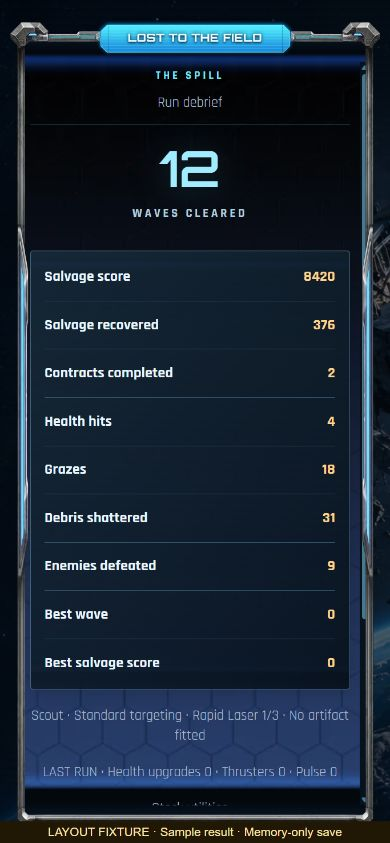
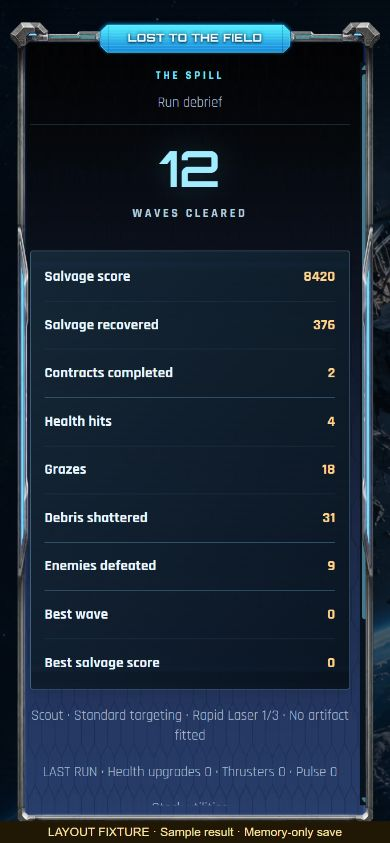
Fit panel backing continuously beneath the metal frame

Changed region(s): [[0.0615, 0.8944, 0.9538, 0.987], [0.0615, 0.0617, 0.9538, 0.0925]]

diff --git a/public/space-ui.css b/public/space-ui.css
@@ -583,15 +583,15 @@ body.mwr-ui .mwr-kit-panel {
   isolation: isolate;
   background: none;
 }
-/* The source frame has transparent margins beyond its bevel. Keep the opaque
-   insert inside that bevel instead of painting a blue rectangle underneath it. */
+/* Fit the insert's own transparent margin and blue rim beneath the metal.
+   Nine-slice both layers: cover-cropping moves the rim on wide/short panels. */
 body.mwr-ui .mwr-kit-panel::after {
   content: "";
   position: absolute;
-  inset: 14px 12px 8px;
+  inset: 14px 9px 3px;
   z-index: -1;
-  background: #071321 url("./art/space-ui/panel-surface.webp") center / cover no-repeat;
-  clip-path: polygon(8px 0, calc(100% - 8px) 0, 100% 8px, 100% calc(100% - 8px), calc(100% - 8px) 100%, 8px 100%, 0 calc(100% - 8px), 0 8px);
+  border: 10px solid transparent;
+  border-image: url("./art/space-ui/panel-surface.webp") 40 fill / 10px / 0 stretch;
   pointer-events: none;
 }
 body.mwr-ui .mwr-kit-panel::before {
@@ -732,7 +732,7 @@ body.mwr-ui .mwr-depot-topbar {
   padding: 4px 10px 8px;
   border-top: 0;
   border-bottom: 1px solid var(--mwr-line-soft);
-  background: #071522;
+  background: none;
   box-shadow: none;
 }
 body.mwr-ui .mwr-depot-heading .ac-kicker { margin: 0; font-size: 10px; letter-spacing: .12em; }
@@ -754,8 +754,10 @@ body.mwr-ui .mwr-depot-shell > .ac-workshop-footer {
   padding: 6px 10px 0;
   margin: 0;
   border-top: 1px solid var(--mwr-line-soft);
-  background: #071522;
+  background: none;
 }
+body.mwr-ui .mwr-depot-shell .mwr-depot-bay { border-color: transparent; background: none; }
+body.mwr-ui .mwr-depot-shell .mwr-depot-ship-stage { background: none; }
 body.mwr-ui .mwr-depot-shell > .ac-workshop-footer::before { display: none; }
 body.mwr-ui .mwr-depot-shell .mwr-depot-layout { padding: 10px; }
 body.mwr-ui .ac-workshop-selection .mwr-depot-upgrade-note {

diff --git a/docs/UI_IDENTITY.md b/docs/UI_IDENTITY.md
@@ -22,9 +22,10 @@ At the owner's direction on 2026-10-30, **Flight Trials are hidden for now**. Th
 
 - Keep the flight center clear. HUD information belongs around the playfield edges; decorative frames must not become touch targets or conceal hazard warnings.
 - Preserve portrait and landscape layouts, browser safe-area insets, rotation pause and the existing floating joystick. Do not add fixed flight buttons.
-- Assemble a panel from its separate honeycomb surface, outer metal frame and cyan nameplate. Inset the surface behind the transparent bevels so rectangular backing cannot protrude around corners. Keep label text inside the nameplate and content inside the frame. Nine-slice resizable controls and frames so their metal bevels retain a consistent thickness; do not stretch the whole border image to unrelated aspect ratios.
+- Assemble a panel from its separate honeycomb surface, outer metal frame and cyan nameplate. The surface includes a blue rim and transparent shadow margin, so nine-slice it as well as the frame; `cover` would crop and move its edge. Fit the surface beneath the inner metal edge in every corner without gaps or overhang. Keep label text inside the nameplate and content inside the frame. Nine-slice resizable controls so their metal bevels retain a consistent thickness; do not stretch the whole border image to unrelated aspect ratios.
 - Let long Depot, guide, loadout and settings content scroll, including expanded control instructions. Apply the same requirement if trial navigation returns. The Depot's outer shell owns the frame and separate title plate; its top bar, middle scroller and footer occupy separate rows with the same side inset. Health, Shields and the existing Repair action belong in the top bar. Keep `.ac-depotcard` as the middle scroll/focus target; launch/save actions must not overlay its content.
 - The Depot's ship/system bay and outfitting sections may sit side by side when space permits and stack on narrow screens. In short landscape, place the four system controls in a row below the full ship preview, rather than over its image. Keep the free-upgrade message with the selected-system purchase. Depot guides retain their separate scrollable card; they do not use the workshop shell.
+- Share one continuous backing under the Depot header, ship bay and footer; separate opaque slabs create false seams beside the outer frame. The surface uses a 40px source slice rendered at 10px, inset 14px top, 9px sides and 3px bottom. Its own transparent margins remain under the metal; the frame uses source slices 84/340/72/340 rendered at 24/95/20/95px. Check corner joins against a bright exterior as well as the game's dark backdrop.
 - Keep the selected weapon visibly equipped even though its equip button is disabled. Selected, locked, insufficient-funds, completed, temporarily arming, hover, pressed and keyboard-focus states must be distinguishable. State text and `aria-pressed` carry meaning in addition to color.
 - Retain the remaining `data-action`, `data-spill-control`, `data-career-choice`, `data-ship-starter` and `data-ship-color` hooks; only the explicitly superseded Controls entry and trial navigation were removed. Existing focus restoration, details expansion, scroll restoration, modal behavior and checkpoint actions continue to apply.
 - Honor reduced motion and avoid decorative continuous motion during navigation. Preserve the action labels and readable contrast when backgrounds or fonts are unavailable.

diff --git a/AGENTS.md b/AGENTS.md
@@ -14,7 +14,7 @@ The owner authorized a complete independent interface identity on 2026-10-30 usi
 
 The generated neutral hull skin replaces the visible acorn/pilot while using the original sprite coordinate space and retaining upgrade attachments and tier indicators. Keep its exact source-reference provenance in `docs/ui-image-prompts.json`; visual changes must not change ship collision geometry or balance.
 
-The interface is mobile-first. Use the supplied panel/button examples as assembly references: honeycomb insert, metal outer frame and a separate centered cyan title plate over the top gap. Inset the backing behind transparent bevels so it cannot spill around the frame. Keep the ship panel's nameplate present. Use nine-slicing for resizable metal borders instead of stretching the whole image; inspect portrait and short landscape at actual phone sizes. Source example receipts are in `docs/UI_IDENTITY.md`; the large private example images and editable kit stay outside the repository.
+The interface is mobile-first. Use the supplied panel/button examples as assembly references: honeycomb insert, metal outer frame and a separate centered cyan title plate over the top gap. Nine-slice both the backing and frame: the surface includes its own transparent margin, blue rim and shadow, so `background-size: cover` cannot align its edges. The backing must meet every inner metal edge without holes or overhang. Use a bright contrasting exterior when checking all four corners. Keep the ship panel's nameplate present. Inspect portrait and short landscape at actual phone sizes. Source example receipts are in `docs/UI_IDENTITY.md`; the large private example images and editable kit stay outside the repository.
 
 The Depot shell keeps the frame/title, top bar, middle `.ac-depotcard` scroller and footer separate. Health, Shields and Repair belong in the top bar; align the header, content and footer to the same side inset. Preserve `.ac-depotcard` as the host's scroll/focus target and keep footer actions from covering content. In short landscape, show the full ship with system controls in a row below it. Keep the free-upgrade affordance beside its purchase control; guides retain their separate scrollable card.
 

diff --git a/.agent/CONTINUITY.md b/.agent/CONTINUITY.md
@@ -1,6 +1,7 @@
 # MobileWaveRun continuity
 
 ## [PLANS]
+- 2026-10-30T22:54Z [USER] Remaining backing gaps in PR screenshot must meet metal edge-to-edge at all corners. [CODE] Supersedes inset/chamfer cover: nine-slice surface40fill/10px inset14/9/3; remove separateopaqueDepotheader/footer/ship backgrounds. [TOOL] Actual390/844 brightmagenta diagnostics showfilledinnerjoins; normal390/844/960 and568fixture screenshots refreshed, consoleclean, temporaryfiles/tabsremoved, viewportreset. Build/type/assets/diff pass; samePR6 updatepending, owneracceptance open.
 - 2026-10-30T22:30Z [OUTCOMES] [TOOL] Depot correction source/browser review finished: full preview/topbar vitals/separate footer, inset panel surfaces, compact controls below ship. Normal390/844, fixture320/568 with2500wallet+Repair checked; repaired3/5to5/5 costs30, narrow widths506/506, min52px controls. Fixed discovered Repair overlap and utility heading overflow. Updated screenshots; memory-only fixture tabs/files removed, viewport reset, normal menu retained. Full28-filecheck passes after structure change; finalCSS build/diff pass. SamePR6 update pending, no merge authorized; physical-device/owner acceptance UNCONFIRMED.
 - 2026-10-30T22:20Z [USER] Fix screenshot-visible panel bleed/Depot alignment; move Health and Shields into topbar and show full ship. User reviewed PR images only, not merged/in-game. SamePR6, no merge authorized. [CODE] Outerframe/title, header/middle scroller/footer as separate rows; inset surface; short landscape system row below preview. Final responsive/browser proof and checks pending.
 - 2026-10-30T21:59Z [USER] Combine Settings and Controls in one menu entry; hide Flight Trials for now to simplify mobile navigation. Preserve underlying trial implementation and regression coverage for later. Extend existing PR6; no merge authorized.

diff --git a/docs/VALIDATION.md b/docs/VALIDATION.md
@@ -4,6 +4,8 @@
 
 ### Depot alignment correction
 
+**Follow-up edge-fit correction:** the owner identified remaining gaps in the previous screenshot. The backing asset includes its own blue rim and transparent shadow; `cover` cropped that rim differently at each aspect ratio. The final CSS nine-slices the surface as well as the metal and removes the separate opaque header, ship-stage and footer backgrounds. This supersedes the previous inset-and-chamfer backing approach. A bright-magenta exterior exposed the entire perimeter at 390x844 and 844x390: all four inner corner joins remained filled with no exterior showing through. Normal Depot, menu, Settings and result screenshots were refreshed; the 568x320 later-Depot fixture was also checked. Build, typecheck, unchanged asset receipts and whitespace checks pass. Browser warnings/errors were empty; diagnostic/capture/fixture files and tabs were removed and viewport reset. This is browser evidence, not owner acceptance or a physical-device test.
+
 The owner found visible defects in the PR screenshots: the opaque backing extended outside the metal bevel, Depot sections used inconsistent insets, and the sticky footer covered the ship. These were candidate-image findings, not reports from a merged build or a physical-phone playtest. They supersede the earlier visual-review claims below for the original Depot layout.
 
 The corrected Depot has an outer frame and nameplate with separate header, scroll area and footer rows. Health, Shields and Repair occupy the header. On short landscape screens the four system controls sit below the complete ship canvas. Panel surfaces are inset independently of the decorative frame. At 568px landscape width, weapon/artifact cards stack and utility headings wrap.
